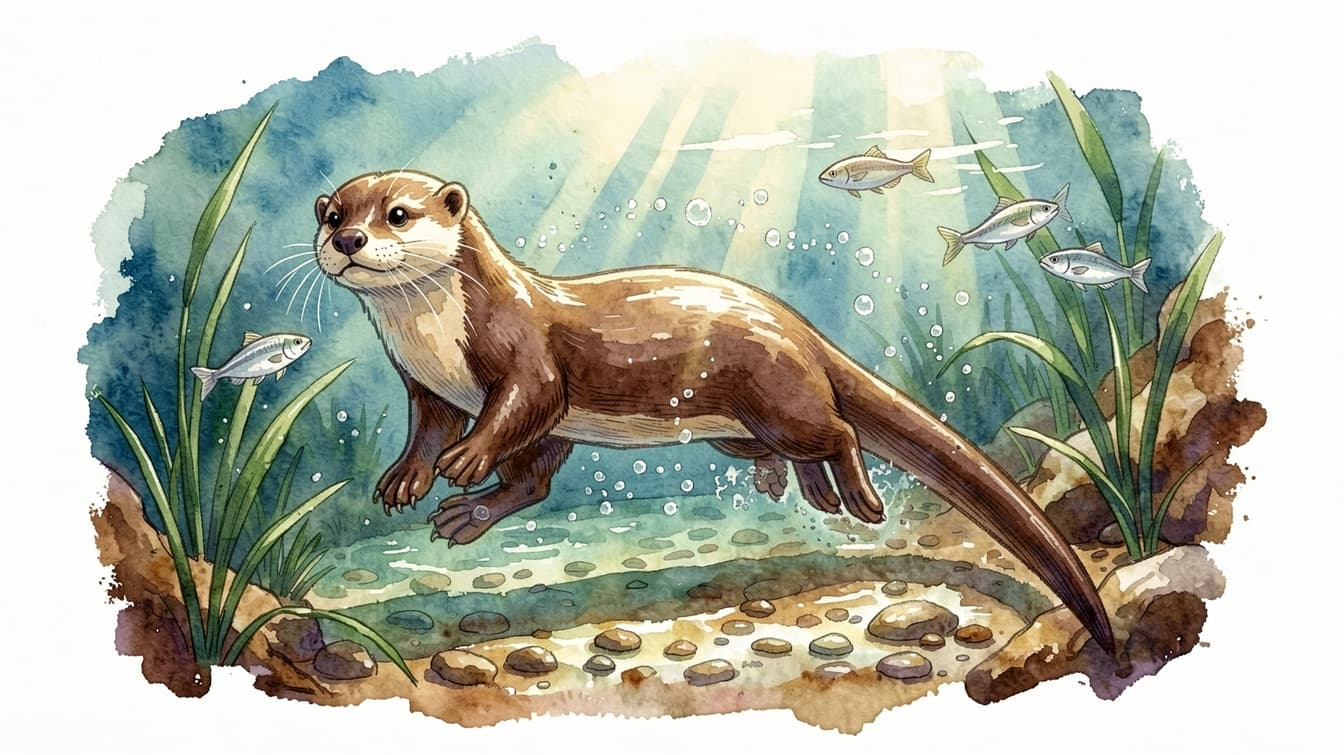
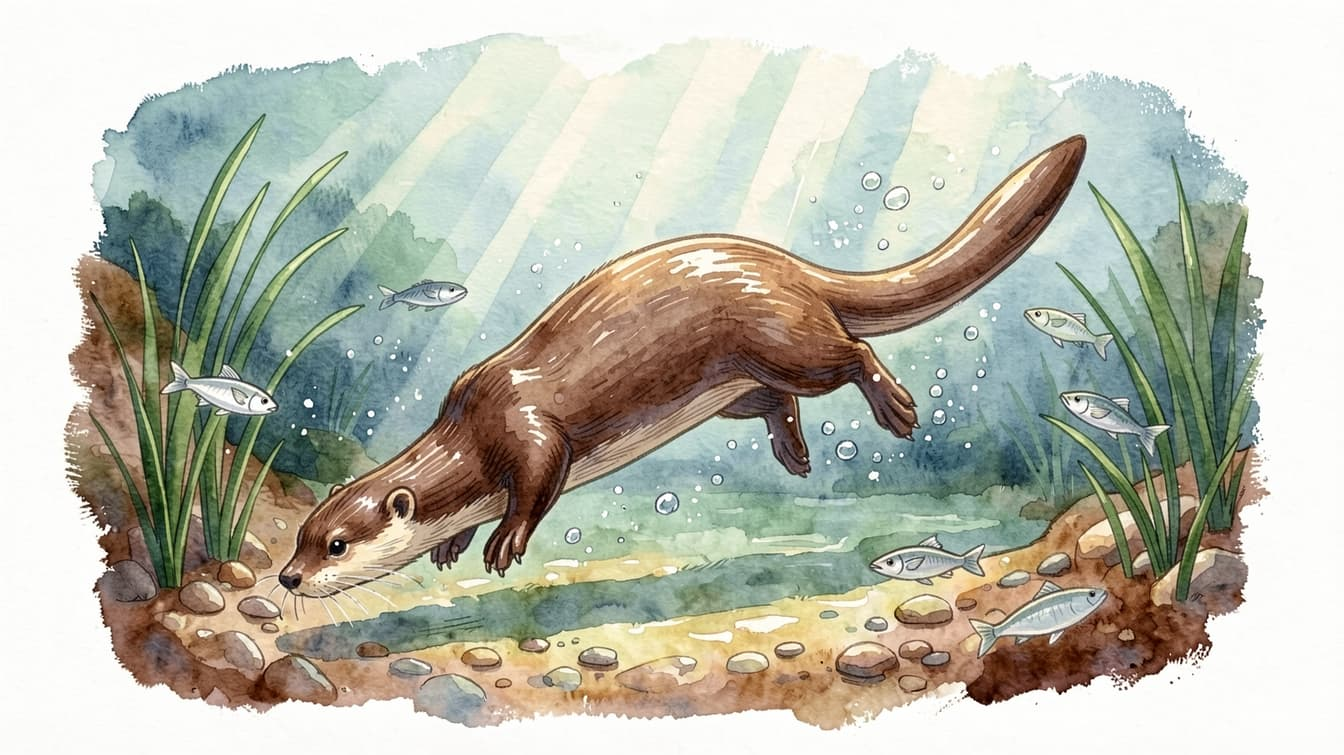
Otters: new picture 2; stories SKILL.md: copy the menu script to Google Drive in Step 6

diff --git a/stories/SKILL.md b/stories/SKILL.md
@@ -192,13 +192,16 @@ Copy the new page and its offline copy to the Google Drive folder
 |---|---|
 | `stories/<page>.html` | `G:\My Drive\_LANGUAGES\stories\` |
 | `eng/single/<page>.html` | `G:\My Drive\_LANGUAGES\eng\single\` |
+| The menu script from Step 4 (`assets/js/nav-*.js`) | `G:\My Drive\_LANGUAGES\assets\js\` |
 
 ```
 cp stories/<page>.html "/g/My Drive/_LANGUAGES/stories/"
 cp eng/single/<page>.html "/g/My Drive/_LANGUAGES/eng/single/"
+cp assets/js/nav-science.js "/g/My Drive/_LANGUAGES/assets/js/"   # the menu you edited
 ```
 
-Copy them again whenever a page or its offline copy is rebuilt.
+Copy them again whenever a page, its offline copy or its menu changes —
+including when a picture is replaced (rebuild the offline copy first).
 
 ---
 
@@ -209,7 +212,7 @@ Copy them again whenever a page or its offline copy is rebuilt.
 - [ ] Audio made, checked with `check_audio.py`, uploaded; every URL returns 200, a few MD5-matched
 - [ ] Menu entry in `assets/js/nav-*.js`
 - [ ] `eng/single/<page>.html` built
-- [ ] Page copied to `G:\My Drive\_LANGUAGES\stories\`, offline copy to `G:\My Drive\_LANGUAGES\eng\single\`
+- [ ] Page copied to `G:\My Drive\_LANGUAGES\stories\`, offline copy to `G:\My Drive\_LANGUAGES\eng\single\`, menu script to `G:\My Drive\_LANGUAGES\assets\js\`
 - [ ] Commit the page, pictures, menu script (media/ and eng/single/ are git-ignored)
 
 ---
